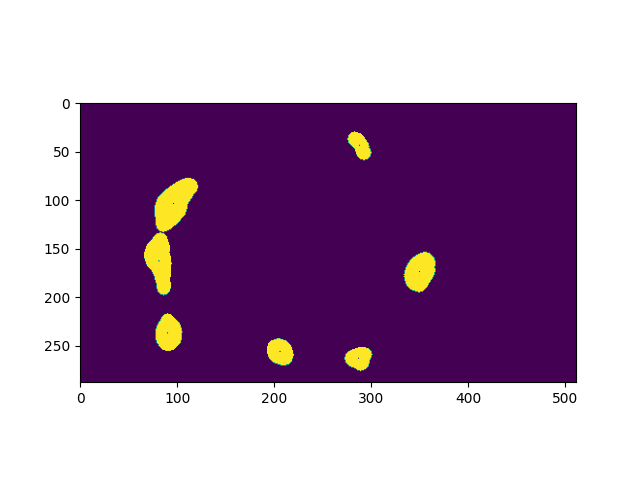
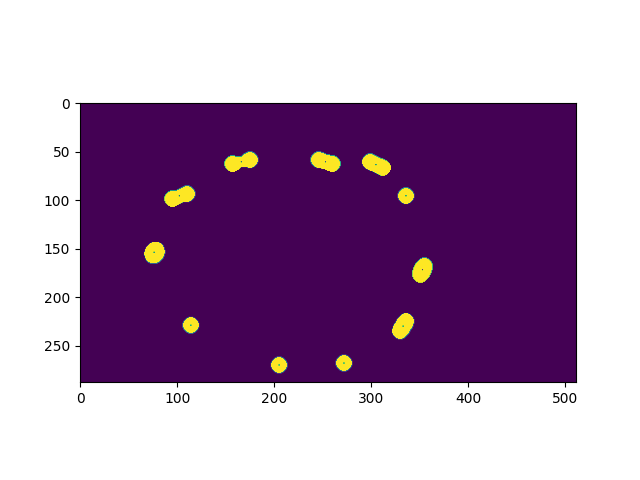
fixed

diff --git a/network.py b/network.py
@@ -3,13 +3,31 @@ import torch.nn as nn
 import torchvision.transforms.functional as TF
 import segmentation_models_pytorch as smp
 
-def my_unet():
-    model = smp.Unet(
-        encoder_name="resnet34",        # choose encoder, e.g. mobilenet_v2 or efficientnet-b7
-        encoder_weights="imagenet",     # use `imagenet` pre-trained weights for encoder initialization
-        in_channels=3,                  # model input channels (1 for gray-scale images, 3 for RGB, etc.)
-        classes=1,                      # model output channels (number of classes in your dataset)
-    )
+def my_unet(modelname):
+    if modelname == 'Unet':
+        model = smp.Unet(
+            encoder_name="resnet34",        # choose encoder, e.g. mobilenet_v2 or efficientnet-b7
+            encoder_weights="imagenet",     # use `imagenet` pre-trained weights for encoder initialization
+            in_channels=3,                  # model input channels (1 for gray-scale images, 3 for RGB, etc.)
+            classes=1,                      # model output channels (number of classes in your dataset)
+        )
+    elif modelname == 'UnetPlusPlus':
+        model = smp.UnetPlusPlus(
+            encoder_name="resnet34",        # choose encoder, e.g. mobilenet_v2 or efficientnet-b7
+            encoder_weights="imagenet",     # use `imagenet` pre-trained weights for encoder initialization
+            in_channels=3,                  # model input channels (1 for gray-scale images, 3 for RGB, etc.)
+            classes=1,   
+        )
+    elif modelname == 'DeepLabV3':
+        model = smp.DeepLabV3(
+            encoder_name="resnet34",        # choose encoder, e.g. mobilenet_v2 or efficientnet-b7
+            encoder_weights="imagenet",     # use `imagenet` pre-trained weights for encoder initialization
+            in_channels=3,                  # model input channels (1 for gray-scale images, 3 for RGB, etc.)
+            classes=1,  
+        )
+    else: 
+        print("model name are wrong")
+
     return model
 
 # - baseline 中没有实现的
@@ -87,7 +105,7 @@ class UNET(nn.Module):
 
 def test():
     x = torch.randn((3, 3, 288, 512))
-    model = my_unet()
+    model = my_unet(modelname='DeepLabV3')
     preds = model(x)
     print(x.shape)
     print(preds.shape)

diff --git a/evaluation.py b/evaluation.py
@@ -12,9 +12,15 @@ from skimage.morphology import disk
 from predict import OSTU
 from utils import im_convert
 
+from PIL import Image
+import torch
+from dataprocess import Medical_Data_test, Medical_Data
+
 def compute(predictions, label_path, radius):
     label_data = json.load(open(label_path))
     labels = label_data["points"]
+    # print("real numbers")
+    # print(len(labels))
     labels_in_radius_of_all_predictions = []
     for prediction_index, prediction in enumerate(predictions):
         labels_in_radius_of_prediction = []
@@ -57,3 +63,38 @@ def evaluate(logits, labels_path):
         false_positive_a_batch += false_positive
         false_negative_a_batch += false_negative
     return true_positive_a_batch, false_positive_a_batch, false_negative_a_batch
+
+def evaluater(logits, labels_path):
+    true_positive_a_batch = 0 
+    false_positive_a_batch = 0 
+    false_negative_a_batch = 0
+    for i in range(len(labels_path)):
+        predict = im_convert(logits[i], False)
+        predictions = OSTU(predict)
+        print("predict numbers")
+        print(len(predictions))
+        print(predictions)
+        true_positive, false_positive, false_negative = compute(predictions, labels_path[i], 6)
+        true_positive_a_batch += true_positive
+        false_positive_a_batch += false_positive
+        false_negative_a_batch += false_negative
+    print("true_positive_a_batch:",true_positive_a_batch, "false_positive_a_batch:",false_positive_a_batch, "false_negative_a_batch",false_negative_a_batch)
+
+
+if __name__=='__main__':
+    batch_size = 1
+    num_workers = 1
+    test_path = './Traindata/'
+    test_dataset = Medical_Data(test_path, data_mode='simulator', set_mode='test')
+    test_loader = torch.utils.data.DataLoader(
+            dataset=test_dataset,
+            batch_size=batch_size, 
+            shuffle=False
+        )
+    dataiter = iter(test_loader)
+    image, label, label_path = dataiter.next()
+    print(label_path[0])
+    l_path = []
+    l_path.append(label_path[0])
+    evaluater(label, l_path)
+

diff --git a/train.py b/train.py
@@ -21,13 +21,13 @@ from utils import get_device
 gpus = [4, 5]
 torch.cuda.set_device('cuda:{}'.format(gpus[0]))
 
-train_name = 'baseline_unet'
+train_name = 'new_DeepLabV3'
 
 # hyperparameter
 default_config = dict(
     batch_size=32,
     num_epoch=200,
-    learning_rate=1.5e-4,          # learning rate of Adam
+    learning_rate=1e-4,          # learning rate of Adam
     weight_decay=0.01,             # weight decay 
     num_workers=5,
     warm_up_epochs=10,
@@ -69,7 +69,7 @@ def pre_data(batch_size, num_workers):
 def train(train_loader, val_loader, learning_rate, weight_decay, num_epoch, model_path):
 
     # model 
-    model = UNET()
+    model = my_unet(modelname='DeepLabV3')
     model = model.to(device)
     model.device = device
 
@@ -128,7 +128,7 @@ def train(train_loader, val_loader, learning_rate, weight_decay, num_epoch, mode
             with torch.no_grad():
                 logits = model(imgs)
 
-            true_positive_a_batch, false_positive_a_batch, false_negative_a_batch = evaluate(logits, label_path)
+            true_positive_a_batch, false_positive_a_batch, false_negative_a_batch = evaluate(torch.sigmoid(logits), label_path)
             true_positive_all_files += true_positive_a_batch
             false_positive_all_files += false_positive_a_batch
             false_negative_all_files += false_negative_a_batch
@@ -153,7 +153,7 @@ def train(train_loader, val_loader, learning_rate, weight_decay, num_epoch, mode
 
         # learning rate decay and print 
         # scheduler.step()
-        realLearningRate = 1.5e-4
+        realLearningRate = learning_rate
         # wandb
         wandb.log({'epoch': epoch + 1, 'train_loss': train_loss, 'val_loss': valid_loss, 'precision': precision, 'f1_score': f1_score, 'sensitivity': sensitivity, 'LearningRate':realLearningRate})
 

diff --git a/predict.py b/predict.py
@@ -53,14 +53,14 @@ def OSTU(predict):
     image_out = predict >= threshold_global_otsu
     ## 画图
     # plt.imshow(image_out)
-    # plt.savefig('./pic/'+img_path.split("/")[-1].replace("json","png"))
+    # plt.savefig('./pic/image_out.png')
     # plt.show()
 
     # 开运算
     # 圆形kernel
     kernel = skimage.morphology.disk(2)
     image_out =skimage.morphology.opening(image_out, kernel)
-    ## 画图
+    # 画图
     # plt.imshow(image_out)
     # plt.savefig('./pic/open.png')
 
@@ -71,18 +71,19 @@ def OSTU(predict):
     # generate prediction points
     points = []
     for prop in props:
-        # x, y
+        # 这里注意x，y别搞反了,输入是 288x512,第零维度是y,第一维是x，
         point = {}
-        point["x"] = prop.centroid[0]
-        point["y"] = prop.centroid[1]
+        point["x"] = prop.centroid[1]
+        point["y"] = prop.centroid[0]
         points.append(point)
 
     # for point in points:
     #     x = int(point["x"])
     #     y = int(point["y"])
-    #     image_out[x,y] = 0
+    #     image_out[y,x] = 0
     # plt.imshow(image_out)
     # plt.savefig('./pic/open_points.png')
+
     return points
 
 def predict(model_path, test_loader):
@@ -93,6 +94,7 @@ def predict(model_path, test_loader):
 
     for batch in tqdm(test_loader):
         imgs, labels, imgs_path = batch
+        print(imgs_path)
         imgs = imgs.to(device)
         labels = labels.to(device)
 
@@ -128,7 +130,7 @@ def main():
     batch_size = 1
     num_workers = 1
     test_path = './Traindata/'
-    model_path = './model/nnew_unet.pt'
+    model_path = './model/nor_unet.pt'
     test_dataset = Medical_Data(test_path, data_mode='simulator', set_mode='test')
     test_loader = torch.utils.data.DataLoader(
             dataset=test_dataset,

diff --git a/dataprocess.py b/dataprocess.py
@@ -108,7 +108,7 @@ class Medical_Data(Dataset):
         elif set_mode == 'valid':
             self.imgs_path = self.imgs_path[self.train_len:]
         elif set_mode == 'test':
-            self.imgs_path = self.imgs_path[-1:]
+            self.imgs_path = self.imgs_path[-100:]
 
         print('Finished reading the {}_{} set of medical dataset ({} samples found)'
             .format(data_mode, set_mode, len(self.imgs_path)))

diff --git a/README.md b/README.md
@@ -1,7 +1,9 @@
 # 文件说明
 - Traindata是数据集
-- lib里面是存放各种工具文件的地方
-- network是网络架构 
+- utils.py里面是存放各种工具函数的地方
+- network.py是网络架构 
+- train.py是训练文件
+- evaluation.py是评价函数所在的文件
 
 TP 就是正确的点，FP就是标错的点，FN就是标漏的点  
 sensitivity (TPR) = TP / TP + FN  
